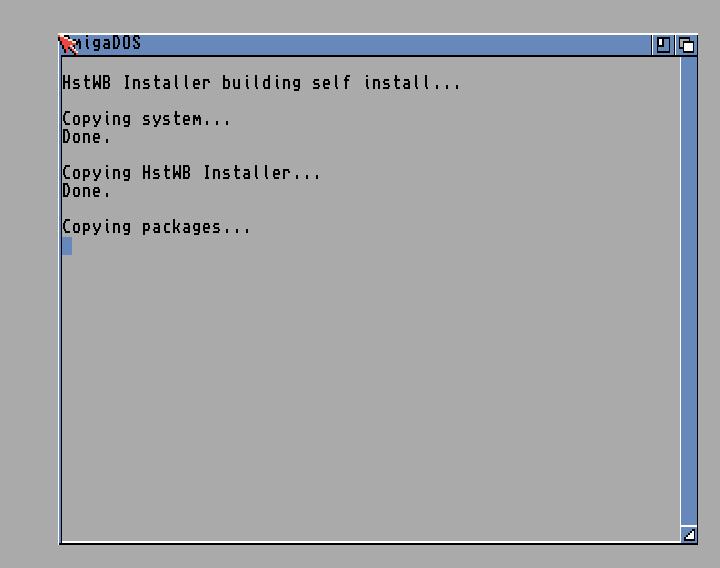
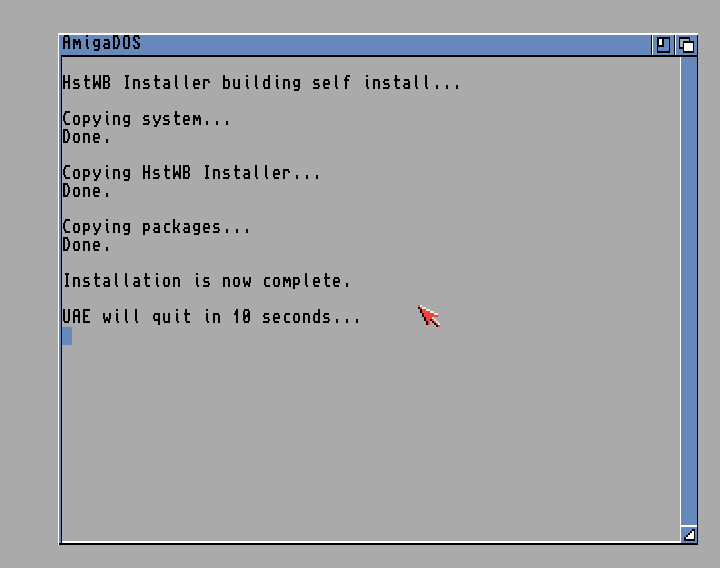
Updated build self install screenshots

diff --git a/README.md b/README.md
@@ -441,7 +441,7 @@ For this example create and select 'C:\Temp\4GB' directory.
 
 ![build_install_4.png](screenshots/build_install_4.png?raw=true)
 
-Press enter to continue when extraction of image HDF files is done.
+Press enter to continue when extraction of image files is done.
 
 ![build_install_5.png](screenshots/build_install_5.png?raw=true)
 
@@ -500,36 +500,38 @@ Installation process is done and will automatically close WinUAE.
 
 **9. Installation process done**
 
-Installation process is done and will automatically close WinUAE after 10 seconds.
+Image is now ready for use either in emulator or on real Amiga.
+
+Press enter to continue and it will return to main menu.
 
 ![build_install_17.png](screenshots/build_install_17.png?raw=true)
-
-Image is now ready for use either in emulator or on real Amiga.
 
 ### Tutorial 2: Create an image using build self install mode
 
 This tutorial describes step by step how to create an image using build self install mode.
 
-Start HstWB Installer Setup.
+**1. Start HstWB Installer Setup**
+
+Start HstWB Installer Setup from start menu or powershell.
 
 Type 1 and enter for select image menu.
 
 ![build_install_1.png](screenshots/build_install_1.png?raw=true)
 
-**1. Create a new image**
+**2. Create a new image**
 
 Type 2 and enter for create image directory from image template menu.
 
 ![build_install_2.png](screenshots/build_install_2.png?raw=true)
 
-**2. Pick an image template that matches your needs**
+**3. Pick an image template that matches your needs**
 
 For this example type 4 and enter for '4GB: HDF RDB, DH0 (300MB/PFS3), DH1 (3300MB/PFS3)' image template. 
 **Note: Option numbers depend on the images installed in HstWB Installer "images" directory, so they may vary.**
 
 ![build_install_3.png](screenshots/build_install_3.png?raw=true)
 
-**3. Select a directory to create new image**
+**4. Select a directory to create new image**
 
 For this example create and select 'C:\Temp\4GB' directory.
 
@@ -543,22 +545,26 @@ Type 3 and enter for back to main menu.
 
 ![build_install_6.png](screenshots/build_install_6.png?raw=true)
 
-**4. Configure packages that will be installed on the image**
+**5. Configure packages that will be installed on the image**
 
 Type 1 and enter for configure packages menu.
+
+![build_install_7.png](screenshots/build_install_7.png?raw=true)
 
 For this example type 1 and enter, 11 and enter, 9 and enter, 7 and enter to install packages: BetterWB, HstWB, EAB WHDLoad Games AGA Menu, EAB WHDLoad Demos AGA Menu.
 **Note: Option numbers depend on the packages installed in HstWB Installer "packages" directory, so they may vary.**
 
-![build_install_7.png](screenshots/build_install_7.png?raw=true)
+![build_install_8.png](screenshots/build_install_8.png?raw=true)
 
 Type 12 and enter for back to main menu.
 
-![build_install_8.png](screenshots/build_install_8.png?raw=true)
+![build_install_9.png](screenshots/build_install_9.png?raw=true)
 
-**5. Switch install mode to build self install**
+**6. Switch install mode to build self install**
 
 Type 6 and enter for configure installer menu.
+
+![build_self_install_10.png](screenshots/build_self_install_10.png?raw=true)
 
 Type 1 and enter for change installer mode.
 
@@ -568,35 +574,39 @@ Type 2 and enter for build self install mode
 
 ![build_self_install_2.png](screenshots/build_self_install_2.png?raw=true)
 
+Type 2 and enter for back to main menu.
+
 ![build_self_install_3.png](screenshots/build_self_install_3.png?raw=true)
 
-![build_self_install_4.png](screenshots/build_self_install_4.png?raw=true)
-
-**6. Run installer to start HstWB Installer Run**
+**7. Run installer to start HstWB Installer Run**
 
 Type 7 end enter.
 
-![build_self_install_5.png](screenshots/build_self_install_5.png?raw=true)
+![build_self_install_4.png](screenshots/build_self_install_4.png?raw=true)
 
-**7. HstWB Installer preparing and launching WinUAE**
+**8. HstWB Installer preparing and launching WinUAE**
 
 HstWB Installer Run prepares installation and launches WinUAE to start installation process.
 
-![build_self_install_6.png](screenshots/build_self_install_6.png?raw=true)
+![build_self_install_5.png](screenshots/build_self_install_5.png?raw=true)
 
-**8. Installation process running**
+**9. Installation process running**
 
 Installation process installing system files for self install and packages. 
 
-![build_self_install_7.png](screenshots/build_self_install_7.png?raw=true)
-
-**9. Installation process done**
+![build_self_install_6.png](screenshots/build_self_install_6.png?raw=true)
 
 Installation process is done and will automatically close WinUAE after 10 seconds.
 
-![build_self_install_8.png](screenshots/build_self_install_8.png?raw=true)
+![build_self_install_7.png](screenshots/build_self_install_7.png?raw=true)
+
+**10. Installation process done**
 
 Image is now ready for self install in an emulator or on real Amiga.
+
+Press enter to continue and it will return to main menu.
+
+![build_self_install_8.png](screenshots/build_self_install_8.png?raw=true)
 
 ### Tutorial 3: Running self install in an emulator or on real Amiga
 
